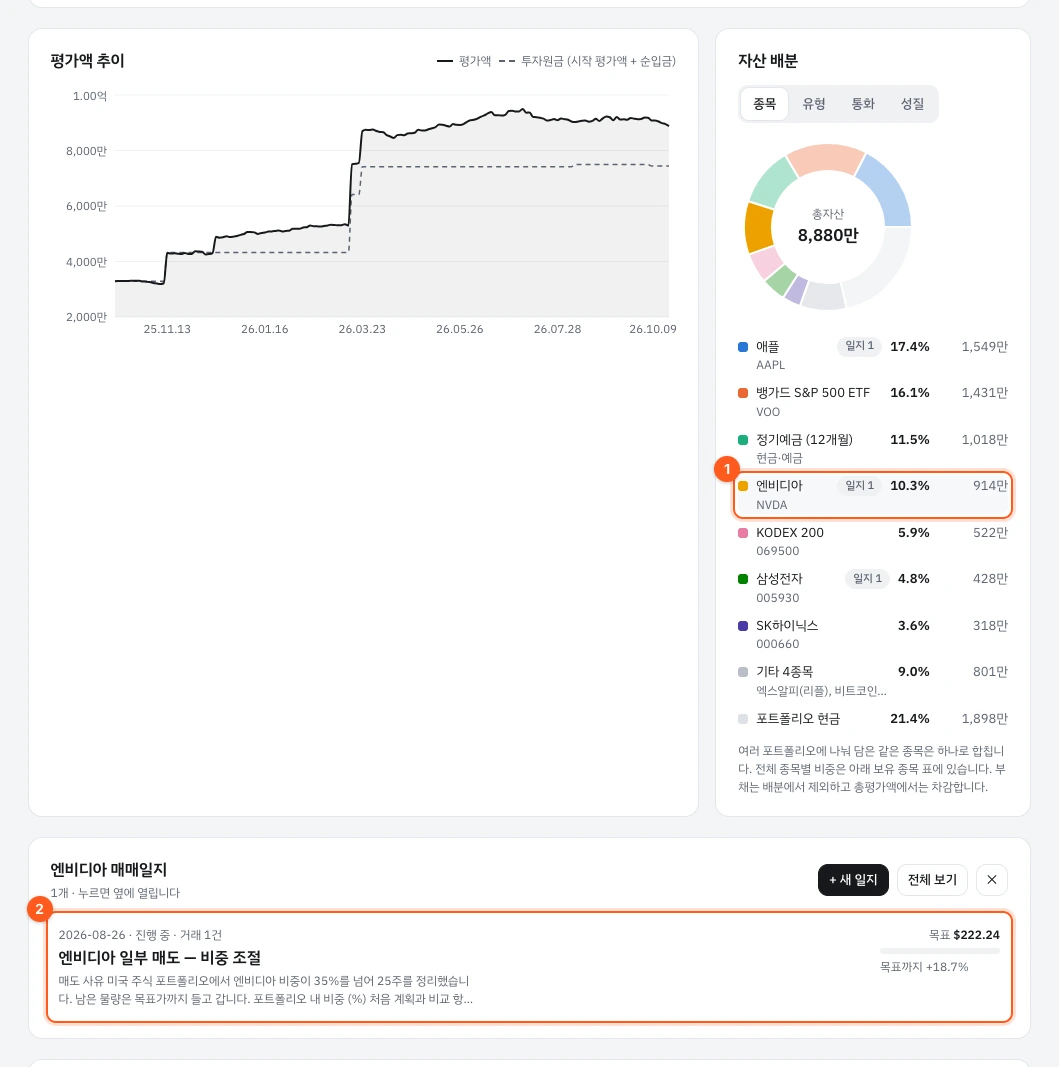
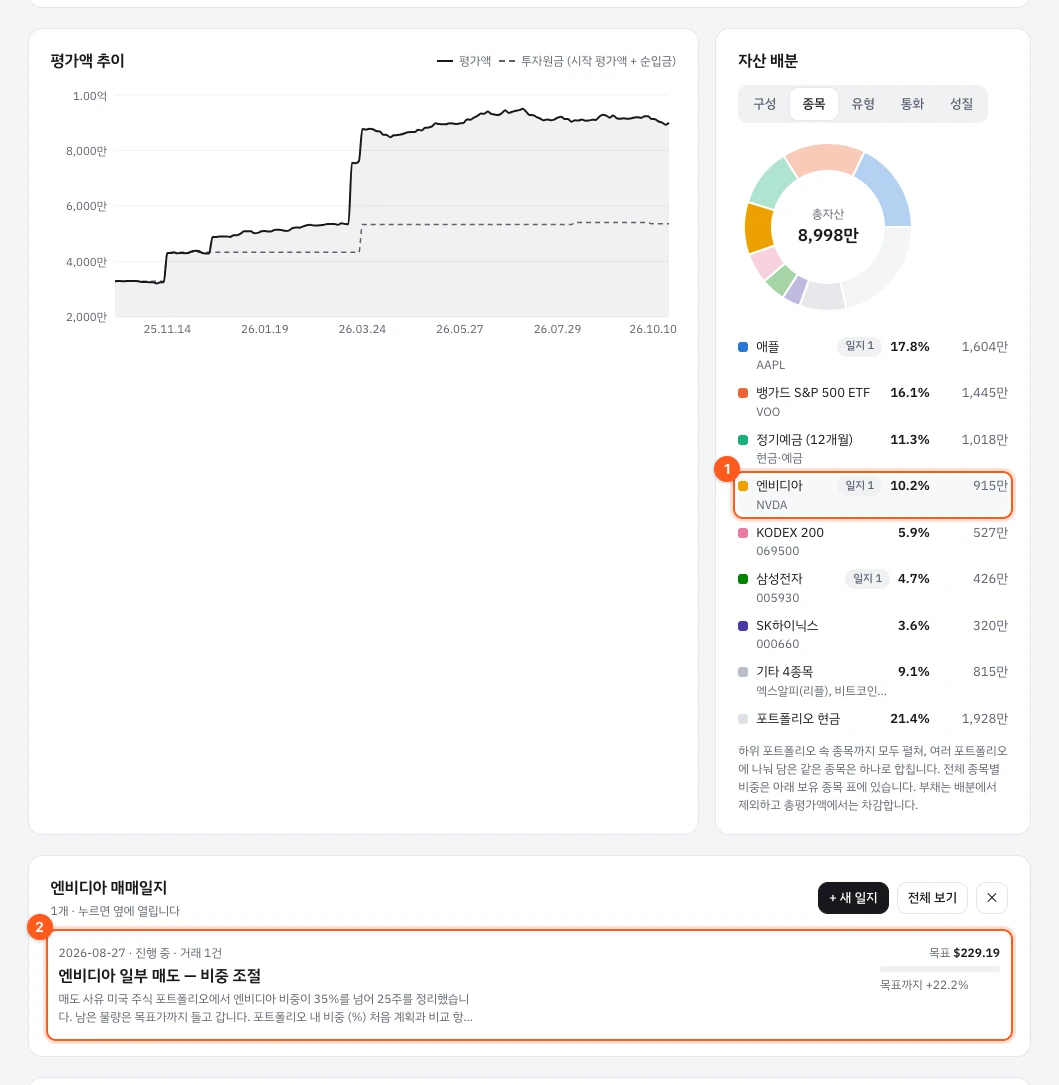
Document removing a stock and the 구성 allocation, with new screens
대시보드 explains the 구성 basis (now the default) in a new section with
its own capture; 포트폴리오 화면 and 종목 화면 describe 제거 and 종목 빼기;
기능 이력 gets two rows. Retaken: dashboard, dashboard-dark,
portfolio-detail, dashboard-traits and the two journal-from-dashboard
screens, which now open the 종목 basis to pick a stock.

diff --git a/scripts/docs/capture.ts b/scripts/docs/capture.ts
@@ -117,7 +117,15 @@ const SHOTS: Shot[] = [
     path: (ids) => `/portfolios/${ids.us}`,
     wait: 1500,
     clip: [{ sel: '.page-head' }, { sel: '.card.kpi', closest: 'section' }, card('직접 보유 종목')],
-    marks: [{ sel: 'a', text: '보유종목 가져오기', within: { sel: '.page-head' } }, { sel: 'a', text: '+ 거래 추가' }, { sel: '.card.kpi', closest: 'section' }, card('직접 보유 종목')],
+    marks: [{ sel: 'a', text: '보유종목 가져오기', within: { sel: '.page-head' } }, { sel: 'a', text: '+ 거래 추가' }, { sel: '.card.kpi', closest: 'section' }, card('직접 보유 종목'), { sel: 'button', text: '제거', within: card('직접 보유 종목') }],
+  },
+  {
+    file: 'dashboard-own',
+    path: (ids) => `/dashboard?p=${ids.root}`,
+    wait: 2200,
+    width: 1280,
+    clip: [card('자산 배분')],
+    marks: [{ sel: '[aria-label="배분 기준"] a', text: '구성' }, { sel: 'li.pick-slice span', text: '미국 주식', closest: 'li' }],
   },
   {
     file: 'portfolio-add',
@@ -250,7 +258,7 @@ const SHOTS: Shot[] = [
   },
   {
     file: 'dashboard-journal',
-    path: () => '/dashboard',
+    path: () => '/dashboard?alloc=holding',
     wait: 2500,
     width: 1280,
     steps: [{ click: { sel: 'li.pick-slice span', text: '엔비디아', closest: 'li' } }, { until: "!!document.querySelector('#journal-panel .journal-list button')" }, { wait: 800 }],
@@ -259,7 +267,7 @@ const SHOTS: Shot[] = [
   },
   {
     file: 'dashboard-journal-drawer',
-    path: () => '/dashboard',
+    path: () => '/dashboard?alloc=holding',
     wait: 2500,
     steps: [
       { click: { sel: 'li.pick-slice span', text: '엔비디아', closest: 'li' } },
